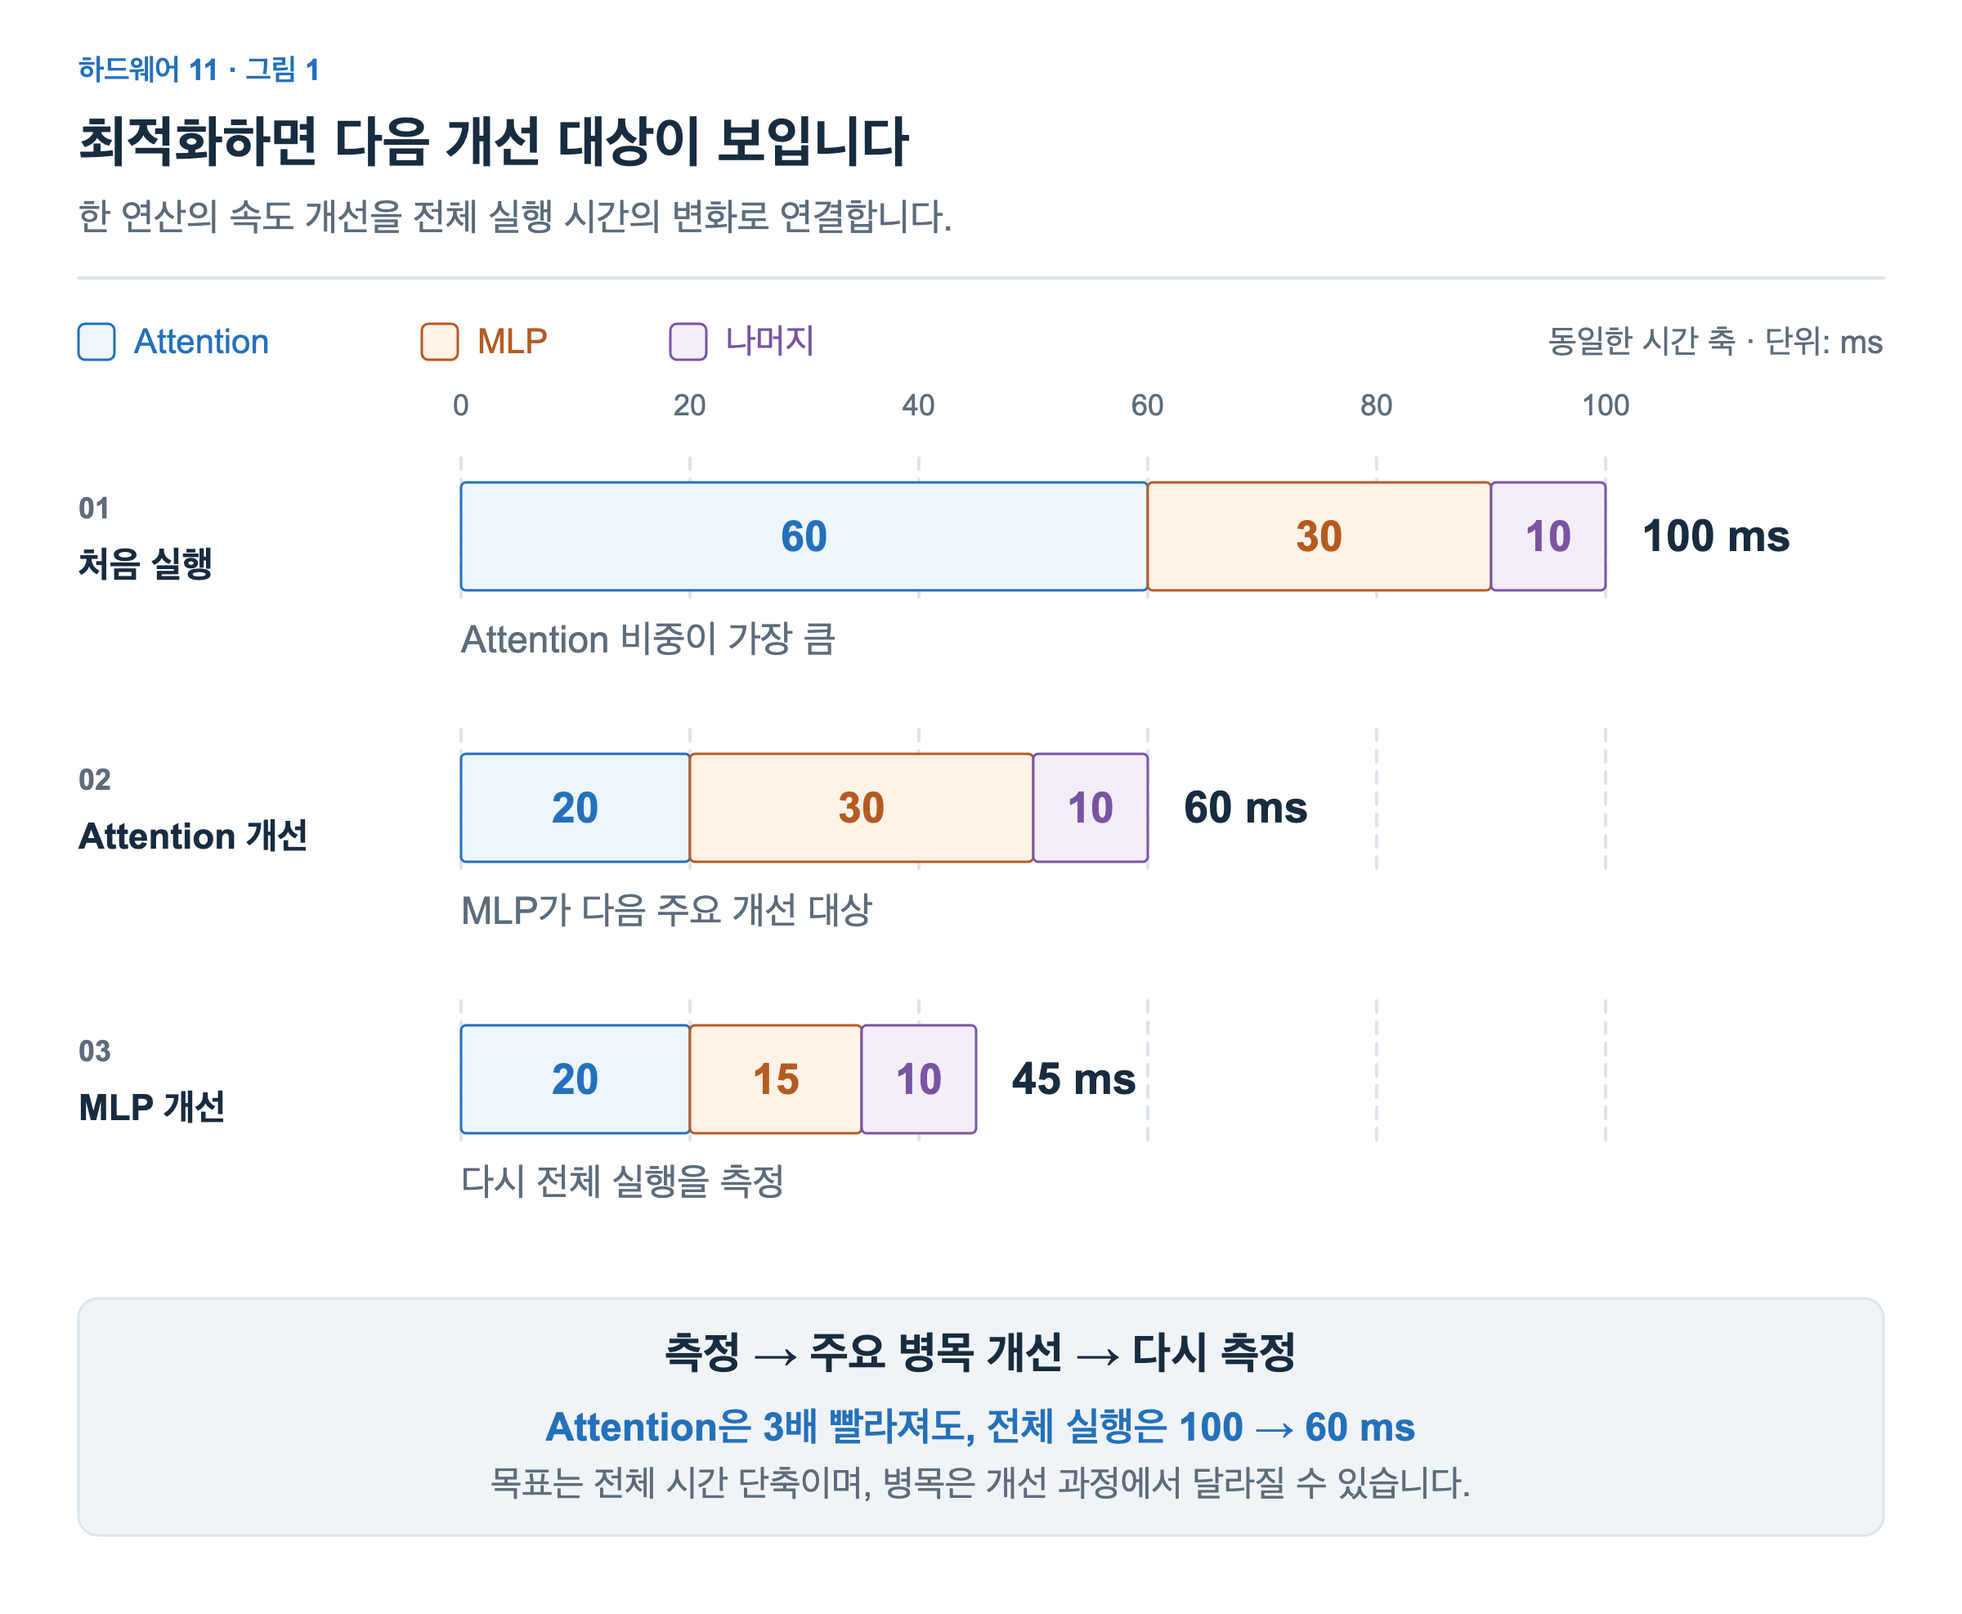
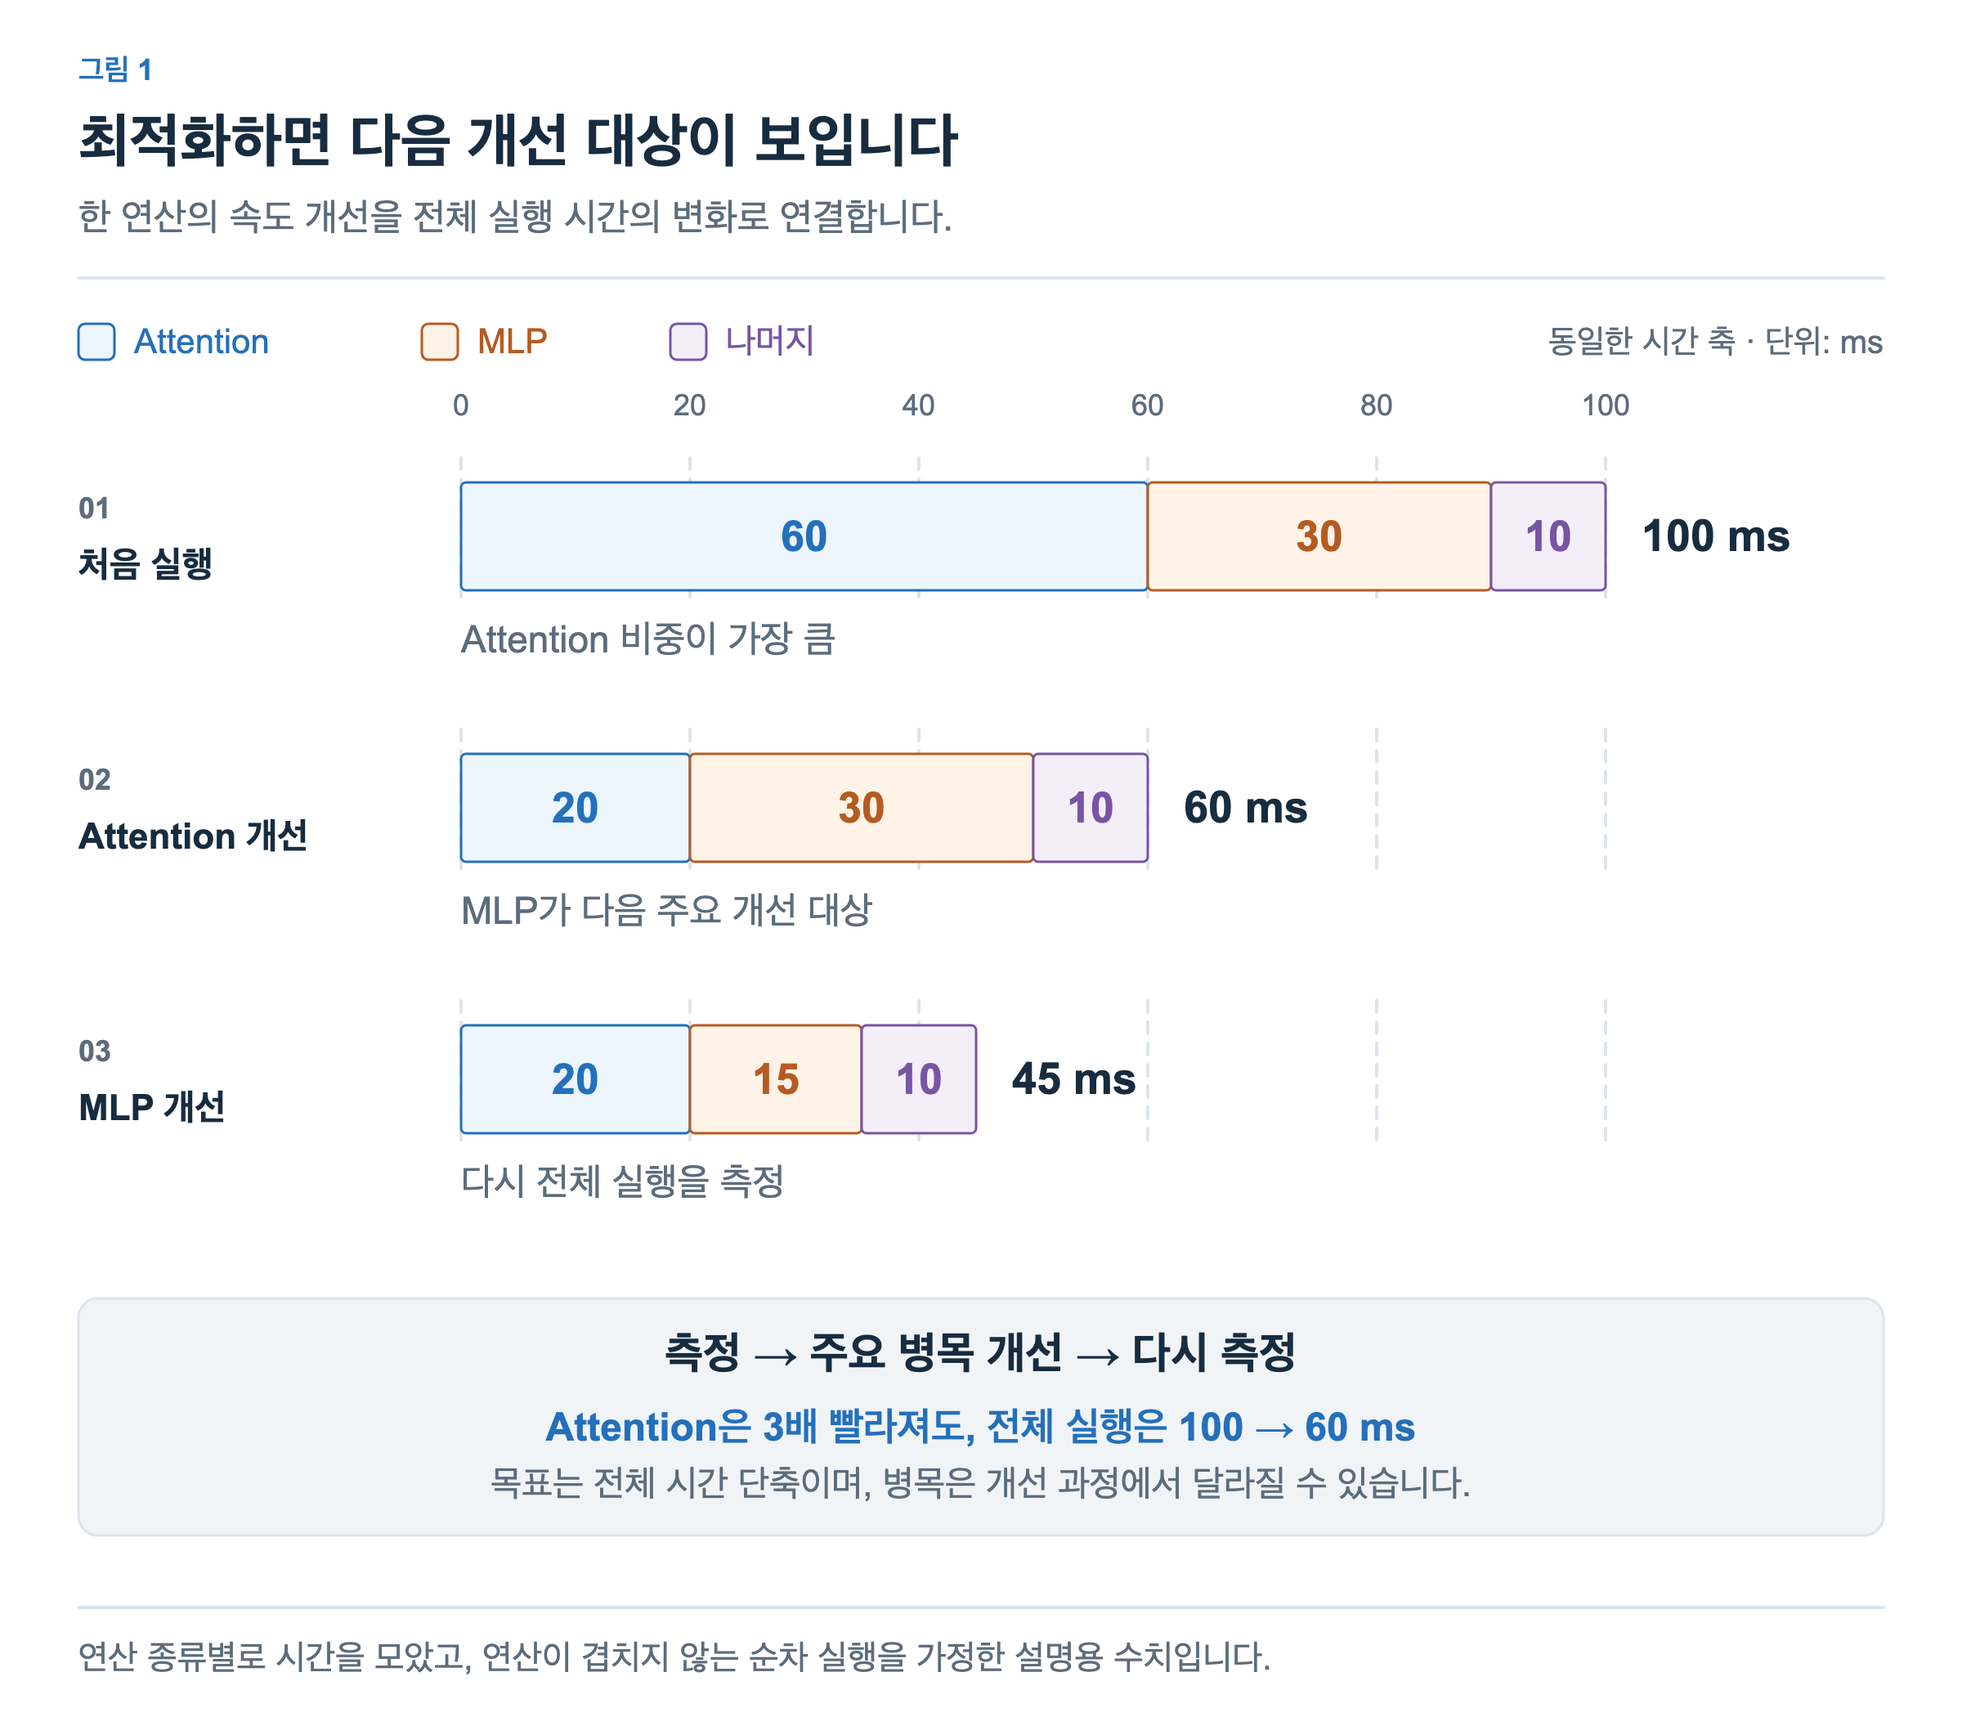
Port model-performance-and-bottlenecks figures to the shared visualization module
Figures are regenerated from src/data/figures/model-performance-and-bottlenecks with the standard frame
and in-image captions. Figures had no captions; new ko/en captions are drafted from the figures' own notes and the article text (please review).

diff --git a/src/data/figures/model-performance-and-bottlenecks/01-shifting-bottlenecks.ts b/src/data/figures/model-performance-and-bottlenecks/01-shifting-bottlenecks.ts
@@ -1,0 +1,69 @@
+import {C,Panel,type FigureSpec,type Locale} from '@llm-systems/viz';
+// Ported from the published SVG with its original geometry; replace parts with shared primitives when editing.
+export default {
+  articleId:"model-performance-and-bottlenecks",figureId:"01-shifting-bottlenecks",number:"01-shifting-bottlenecks",
+  layout:'wide',screens:['desktop'],
+  eyebrow:["그림 1","Figure 1"],
+  title:["최적화하면 다음 개선 대상이 보입니다","Optimization reveals the next target"],
+  subtitle:["한 연산의 속도 개선을 전체 실행 시간의 변화로 연결합니다.","Connect a faster operation to the time saved across the whole run."],
+  alt:["Attention, MLP, 나머지의 시간이 60·30·10ms에서 20·30·10ms, 20·15·10ms로 변한다. 전체 시간은 100, 60, 45ms이며 같은 시간 축을 사용한다. 측정, 개선, 재측정을 반복한다. 순차 실행을 가정한 설명용 수치다.","Attention, MLP, and other operations take 60/30/10, then 20/30/10, then 20/15/10 ms. Totals of 100, 60, and 45 ms use one time scale. Measure, improve, and measure again. Illustrative sequential execution."],
+  caption:["연산 종류별로 시간을 모았고, 연산이 겹치지 않는 순차 실행을 가정한 설명용 수치입니다.","Times are grouped by operation type; values are illustrative and assume sequential execution without overlap."],
+  sources:[],
+  panels(locale:Locale){
+    const p=new Panel(locale,null,741,1104,[48,206]);
+    p.el("rect",{x:48,y:198,width:22,height:22,rx:4,fill:C.blueFill,stroke:C.blue,"stroke-width":1.5});
+    p.el('text',{x:82,y:216,fill:C.blue,"font-size":21,"font-weight":400,"text-anchor":"start"},"Attention");
+    p.el("rect",{x:258,y:198,width:22,height:22,rx:4,fill:C.orangeFill,stroke:C.orange,"stroke-width":1.5});
+    p.el('text',{x:292,y:216,fill:C.orange,"font-size":21,"font-weight":400,"text-anchor":"start"},"MLP");
+    p.el("rect",{x:410,y:198,width:22,height:22,rx:4,fill:C.purpleFill,stroke:C.purple,"stroke-width":1.5});
+    p.el('text',{x:444,y:216,fill:C.purple,"font-size":21,"font-weight":400,"text-anchor":"start"},["나머지","Other"]);
+    p.el('text',{x:1152,y:216,fill:C.muted,"font-size":20,"font-weight":400,"text-anchor":"end"},["동일한 시간 축 · 단위: ms","Same time scale · Unit: ms"]);
+    p.el("path",{d:"M282,280 V369 M282,446 V535 M282,612 V701",fill:"none",stroke:C.line,"stroke-width":2,"stroke-dasharray":"7 6"});
+    p.el('text',{x:282,y:254,fill:C.muted,"font-size":18,"font-weight":400,"text-anchor":"middle"},"0");
+    p.el("path",{d:"M422,280 V369 M422,446 V535 M422,612 V701",fill:"none",stroke:C.line,"stroke-width":2,"stroke-dasharray":"7 6"});
+    p.el('text',{x:422,y:254,fill:C.muted,"font-size":18,"font-weight":400,"text-anchor":"middle"},"20");
+    p.el("path",{d:"M562,280 V369 M562,446 V535 M562,612 V701",fill:"none",stroke:C.line,"stroke-width":2,"stroke-dasharray":"7 6"});
+    p.el('text',{x:562,y:254,fill:C.muted,"font-size":18,"font-weight":400,"text-anchor":"middle"},"40");
+    p.el("path",{d:"M702,280 V369 M702,446 V535 M702,612 V701",fill:"none",stroke:C.line,"stroke-width":2,"stroke-dasharray":"7 6"});
+    p.el('text',{x:702,y:254,fill:C.muted,"font-size":18,"font-weight":400,"text-anchor":"middle"},"60");
+    p.el("path",{d:"M842,280 V369 M842,446 V535 M842,612 V701",fill:"none",stroke:C.line,"stroke-width":2,"stroke-dasharray":"7 6"});
+    p.el('text',{x:842,y:254,fill:C.muted,"font-size":18,"font-weight":400,"text-anchor":"middle"},"80");
+    p.el("path",{d:"M982,280 V369 M982,446 V535 M982,612 V701",fill:"none",stroke:C.line,"stroke-width":2,"stroke-dasharray":"7 6"});
+    p.el('text',{x:982,y:254,fill:C.muted,"font-size":18,"font-weight":400,"text-anchor":"middle"},"100");
+    p.el('text',{x:48,y:317,fill:C.muted,"font-size":18,"font-weight":600,"text-anchor":"start"},"01");
+    p.el('text',{x:48,y:353,fill:C.ink,"font-size":22,"font-weight":700,"text-anchor":"start"},["처음 실행","Initial run"]);
+    p.el("rect",{x:282,y:295,width:420,height:66,rx:3,fill:C.blueFill,stroke:C.blue,"stroke-width":1.5});
+    p.el('text',{x:492,y:337,fill:C.blue,"font-size":26,"font-weight":600,"text-anchor":"middle"},"60");
+    p.el("rect",{x:702,y:295,width:210,height:66,rx:3,fill:C.orangeFill,stroke:C.orange,"stroke-width":1.5});
+    p.el('text',{x:807,y:337,fill:C.orange,"font-size":26,"font-weight":600,"text-anchor":"middle"},"30");
+    p.el("rect",{x:912,y:295,width:70,height:66,rx:3,fill:C.purpleFill,stroke:C.purple,"stroke-width":1.5});
+    p.el('text',{x:947,y:337,fill:C.purple,"font-size":26,"font-weight":600,"text-anchor":"middle"},"10");
+    p.el('text',{x:1004,y:337,fill:C.ink,"font-size":27,"font-weight":700,"text-anchor":"start"},"100 ms");
+    p.el('text',{x:282,y:399,fill:C.muted,"font-size":23,"font-weight":400,"text-anchor":"start"},["Attention 비중이 가장 큼","Attention takes the most time"]);
+    p.el('text',{x:48,y:483,fill:C.muted,"font-size":18,"font-weight":600,"text-anchor":"start"},"02");
+    p.el('text',{x:48,y:519,fill:C.ink,"font-size":22,"font-weight":700,"text-anchor":"start"},["Attention 개선","Optimize Attention"]);
+    p.el("rect",{x:282,y:461,width:140,height:66,rx:3,fill:C.blueFill,stroke:C.blue,"stroke-width":1.5});
+    p.el('text',{x:352,y:503,fill:C.blue,"font-size":26,"font-weight":600,"text-anchor":"middle"},"20");
+    p.el("rect",{x:422,y:461,width:210,height:66,rx:3,fill:C.orangeFill,stroke:C.orange,"stroke-width":1.5});
+    p.el('text',{x:527,y:503,fill:C.orange,"font-size":26,"font-weight":600,"text-anchor":"middle"},"30");
+    p.el("rect",{x:632,y:461,width:70,height:66,rx:3,fill:C.purpleFill,stroke:C.purple,"stroke-width":1.5});
+    p.el('text',{x:667,y:503,fill:C.purple,"font-size":26,"font-weight":600,"text-anchor":"middle"},"10");
+    p.el('text',{x:724,y:503,fill:C.ink,"font-size":27,"font-weight":700,"text-anchor":"start"},"60 ms");
+    p.el('text',{x:282,y:565,fill:C.muted,"font-size":23,"font-weight":400,"text-anchor":"start"},["MLP가 다음 주요 개선 대상","MLP becomes the next main target"]);
+    p.el('text',{x:48,y:649,fill:C.muted,"font-size":18,"font-weight":600,"text-anchor":"start"},"03");
+    p.el('text',{x:48,y:685,fill:C.ink,"font-size":22,"font-weight":700,"text-anchor":"start"},["MLP 개선","Optimize MLP"]);
+    p.el("rect",{x:282,y:627,width:140,height:66,rx:3,fill:C.blueFill,stroke:C.blue,"stroke-width":1.5});
+    p.el('text',{x:352,y:669,fill:C.blue,"font-size":26,"font-weight":600,"text-anchor":"middle"},"20");
+    p.el("rect",{x:422,y:627,width:105,height:66,rx:3,fill:C.orangeFill,stroke:C.orange,"stroke-width":1.5});
+    p.el('text',{x:474.5,y:669,fill:C.orange,"font-size":26,"font-weight":600,"text-anchor":"middle"},"15");
+    p.el("rect",{x:527,y:627,width:70,height:66,rx:3,fill:C.purpleFill,stroke:C.purple,"stroke-width":1.5});
+    p.el('text',{x:562,y:669,fill:C.purple,"font-size":26,"font-weight":600,"text-anchor":"middle"},"10");
+    p.el('text',{x:619,y:669,fill:C.ink,"font-size":27,"font-weight":700,"text-anchor":"start"},"45 ms");
+    p.el('text',{x:282,y:731,fill:C.muted,"font-size":23,"font-weight":400,"text-anchor":"start"},["다시 전체 실행을 측정","Measure the whole run again"]);
+    p.el("rect",{x:48,y:794,width:1104,height:145,rx:12,fill:C.grayFill,stroke:C.line,"stroke-width":1.5});
+    p.el('text',{x:600,y:837,fill:C.ink,"font-size":27,"font-weight":700,"text-anchor":"middle"},["측정 → 주요 병목 개선 → 다시 측정","Measure → Improve the main bottleneck → Measure again"]);
+    p.el('text',{x:600,y:881,fill:C.blue,"font-size":24,"font-weight":600,"text-anchor":"middle"},["Attention은 3배 빨라져도, 전체 실행은 100 → 60 ms","Attention is 3× faster; the whole run goes from 100 to 60 ms"]);
+    p.el('text',{x:600,y:915,fill:C.muted,"font-size":22,"font-weight":400,"text-anchor":"middle"},["목표는 전체 시간 단축이며, 병목은 개선 과정에서 달라질 수 있습니다.","The goal is a shorter whole run; the bottleneck can change along the way."]);
+    return [p];
+  },
+} satisfies FigureSpec;

diff --git a/src/data/figures/model-performance-and-bottlenecks/02-beyond-one-gpu.ts b/src/data/figures/model-performance-and-bottlenecks/02-beyond-one-gpu.ts
@@ -1,0 +1,46 @@
+import {C,Panel,markerUrl,type FigureSpec,type Locale} from '@llm-systems/viz';
+// Ported from the published SVG with its original geometry; replace parts with shared primitives when editing.
+export default {
+  articleId:"model-performance-and-bottlenecks",figureId:"02-beyond-one-gpu",number:"02-beyond-one-gpu",
+  layout:'wide',screens:['desktop'],
+  eyebrow:["그림 2","Figure 2"],
+  title:["현재 자원에서 개선하고, 필요한 자원을 늘립니다","Improve execution and expand resources as needed"],
+  subtitle:["실행 시간의 목표와 실행에 필요한 메모리 용량을 구분합니다.","Distinguish a target execution time from the memory capacity needed to run."],
+  alt:["왼쪽 실행 시간은 100에서 60ms로 줄었지만 30ms 목표를 넘는다. 오른쪽은 12GB GPU 용량 경계를 16GB의 필요 메모리가 넘는다. 필요량을 줄이거나 자원을 늘리는 선택에서 여러 GPU로 연결한다. 수치는 설명용이다.","Time drops from 100 to 60 ms but remains above a 30 ms target. A 16 GB requirement exceeds a GPU capacity of 12 GB. Reducing requirements or increasing resources leads to the multi-GPU question. Illustrative values."],
+  caption:["수치는 설명용이며 특정 모델이나 GPU의 값이 아닙니다.","Values are illustrative, not those of a specific model or GPU."],
+  sources:[],
+  panels(locale:Locale){
+    const p=new Panel(locale,null,752,1104,[48,206]);
+    p.el("rect",{x:48,y:207,width:536,height:476,rx:12,fill:C.grayFill,stroke:C.line,"stroke-width":1.5});
+    p.el('text',{x:76,y:250,fill:C.ink,"font-size":26,"font-weight":700,"text-anchor":"start"},["목표 시간에 도달하지 못한 경우","The target time has not been met"]);
+    p.el('text',{x:76,y:287,fill:C.muted,"font-size":21,"font-weight":400,"text-anchor":"start"},["현재 GPU에서 실행을 개선","Improve execution on the current GPU"]);
+    p.el("rect",{x:616,y:207,width:536,height:476,rx:12,fill:C.grayFill,stroke:C.line,"stroke-width":1.5});
+    p.el('text',{x:644,y:250,fill:C.ink,"font-size":26,"font-weight":700,"text-anchor":"start"},["메모리 용량이 부족한 경우","Memory capacity is insufficient"]);
+    p.el('text',{x:644,y:287,fill:C.muted,"font-size":21,"font-weight":400,"text-anchor":"start"},["선택한 실행에 필요한 저장 공간","Storage needed for the chosen execution"]);
+    p.el('text',{x:156,y:349,fill:C.ink,"font-size":20,"font-weight":400,"text-anchor":"end"},["처음","Initial"]);
+    p.el("rect",{x:170,y:316,width:360,height:49,rx:12,fill:C.blueFill,stroke:C.blue,"stroke-width":1.5});
+    p.el('text',{x:350,y:348.5,fill:C.blue,"font-size":23,"font-weight":600,"text-anchor":"middle"},"100 ms");
+    p.el('text',{x:156,y:436,fill:C.ink,"font-size":20,"font-weight":400,"text-anchor":"end"},["개선 후","Improved"]);
+    p.el("rect",{x:170,y:403,width:216,height:49,rx:12,fill:C.tealFill,stroke:C.teal,"stroke-width":1.5});
+    p.el('text',{x:278,y:435.5,fill:C.teal,"font-size":23,"font-weight":600,"text-anchor":"middle"},"60 ms");
+    p.el("path",{d:"M278,384 V399 M278,457 V514",fill:"none",stroke:C.orange,"stroke-width":2,"stroke-dasharray":"7 6"});
+    p.el('text',{x:278,y:550,fill:C.orange,"font-size":21,"font-weight":600,"text-anchor":"middle"},["목표 30 ms","Target: 30 ms"]);
+    p.el('text',{x:76,y:606,fill:C.muted,"font-size":23,"font-weight":400,"text-anchor":"start"},["실행 시간은 줄었지만,","Execution is faster, but meeting the target"]);
+    p.el('text',{x:76,y:640,fill:C.muted,"font-size":23,"font-weight":400,"text-anchor":"start"},["목표를 달성하려면 추가 개선이 필요","requires further improvement."]);
+    p.el('text',{x:644,y:349,fill:C.blue,"font-size":23,"font-weight":600,"text-anchor":"start"},["한 GPU의 용량: 12 GB","One GPU: 12 GB capacity"]);
+    p.el("rect",{x:644,y:382,width:300,height:128,rx:5,fill:C.paper,stroke:C.blue,"stroke-width":1.5});
+    p.el("rect",{x:644,y:420,width:400,height:54,rx:4,fill:C.orangeFill,stroke:C.orange,"stroke-width":1.5});
+    p.el('text',{x:844,y:455,fill:C.orange,"font-size":23,"font-weight":600,"text-anchor":"middle"},["필요한 메모리: 16 GB","Required memory: 16 GB"]);
+    p.el("path",{d:"M944,365 V415 M944,479 V526",fill:"none",stroke:C.blue,"stroke-width":2,"stroke-dasharray":"7 6"});
+    p.el('text',{x:944,y:550,fill:C.blue,"font-size":21,"font-weight":600,"text-anchor":"middle"},["용량 경계","Capacity limit"]);
+    p.el('text',{x:644,y:606,fill:C.muted,"font-size":23,"font-weight":400,"text-anchor":"start"},["선택한 실행을 그대로 담을 수 없음","This execution does not fit as configured."]);
+    p.el('text',{x:644,y:640,fill:C.muted,"font-size":23,"font-weight":400,"text-anchor":"start"},["필요량을 줄이거나 저장 자원을 늘림","Reduce its memory needs or add storage."]);
+    p.el("path",{d:"M316,705 L316,750",fill:"none",stroke:C.muted,"stroke-width":2,"marker-end":markerUrl(C.muted)});
+    p.el("path",{d:"M884,705 L884,750",fill:"none",stroke:C.muted,"stroke-width":2,"marker-end":markerUrl(C.muted)});
+    p.el("rect",{x:48,y:767,width:1104,height:183,rx:12,fill:C.blueFill,stroke:C.blue,"stroke-width":1.5});
+    p.el('text',{x:76,y:813,fill:C.blue,"font-size":28,"font-weight":700,"text-anchor":"start"},["더 많은 자원을 활용한다면?","What if we use more resources?"]);
+    p.el('text',{x:76,y:858,fill:C.ink,"font-size":23,"font-weight":400,"text-anchor":"start"},["더 빠른 응답 · 더 많은 요청 처리 · 부족한 메모리 용량 확보","Faster responses · More requests · More memory capacity"]);
+    p.el('text',{x:76,y:897,fill:C.ink,"font-size":23,"font-weight":400,"text-anchor":"start"},["GPU를 추가하면, 데이터와 계산을 어떻게 나눌까요?","With additional GPUs, how should we divide data and computation?"]);
+    return [p];
+  },
+} satisfies FigureSpec;
